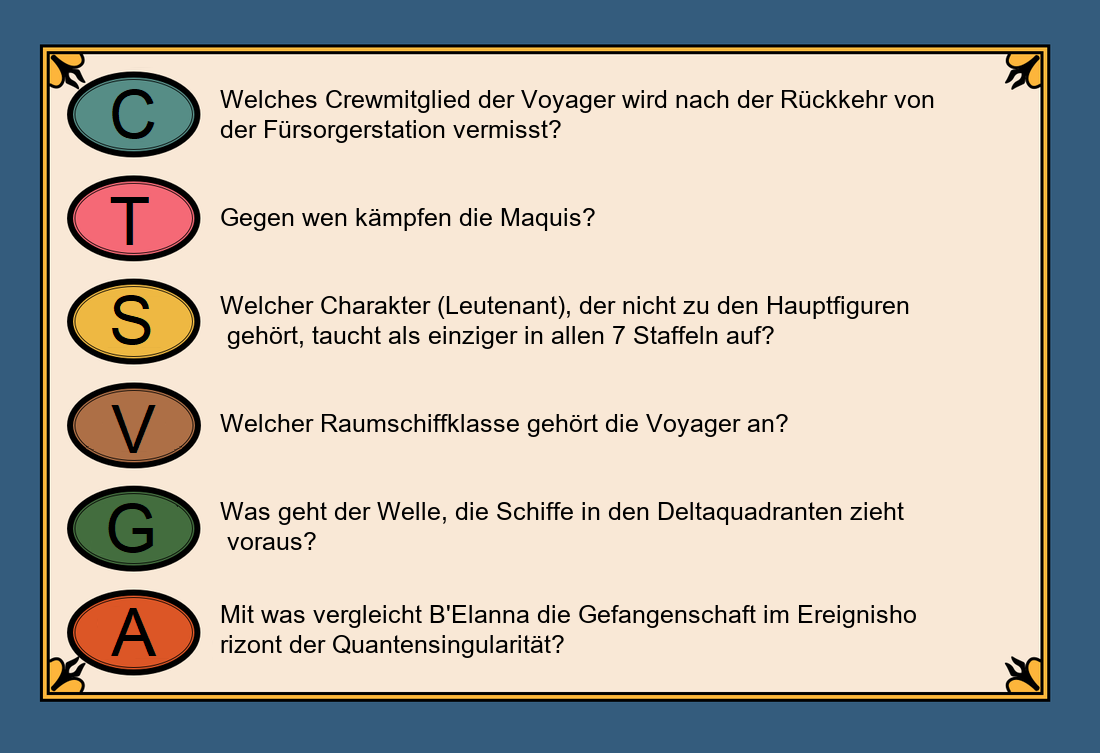
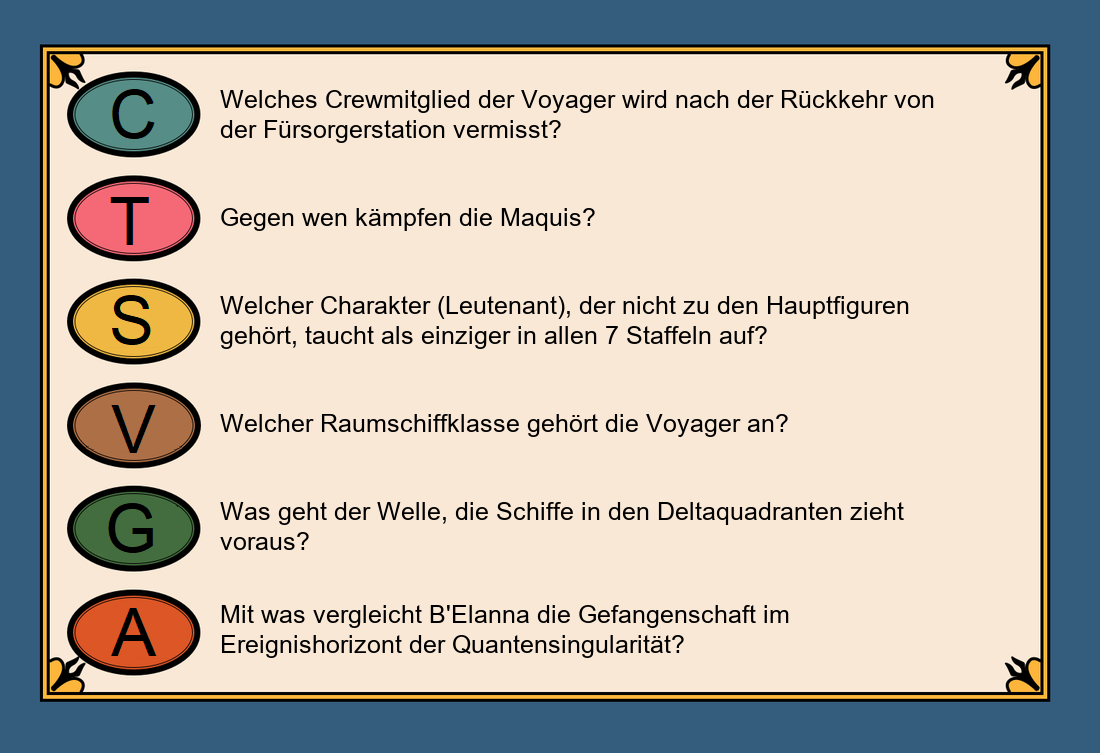
Database tools started. Checks if questions has questions mark and aren't to long and raises warnings and errors.

diff --git a/create_cards.py b/create_cards.py
@@ -1,12 +1,18 @@
+import os
+import re
+import shutil
 import sqlite3
 
 from PIL import ImageFont, Image, ImageDraw
-
-from database_statistics import count_questions, database_statistics
+from database_statistics import count_questions, get_categories_from_file
 
 
 def create_connection(db_file):
-    """ create a database connection to a SQLite database """
+    """
+    Establishes a database connection
+    :param db_file: File of the database
+    :return: Successfull connection
+    """
     try:
         return sqlite3.connect(db_file)
     except sqlite3.Error as e:
@@ -14,21 +20,34 @@ def create_connection(db_file):
 
 
 def get_questions_of_categoriy(conn, category):
+    """
+    Gets all questions of a category from the database
+    :param conn: Database connection
+    :param category: Category of which questions will be retrieved
+    :return: Set of all questions with the category
+    """
     cur = conn.cursor()
     cur.execute("SELECT * FROM qac WHERE category=?", category)
     return cur.fetchall()  # Could also use dict_factory
 
 
 def create_cards():
-    conn = create_connection("python_sqlite.db")
+    """
+    Creates question cards filled with the questions provided by the database
+    :return: Returns when no new card can be created
+    """
+    if os.path.exists("out") and os.path.isdir("out"):
+        shutil.rmtree('out')  # Clean out folder
+    os.mkdir("out")  # create new out folder for result cards
+    conn = create_connection("python_sqlite.db")  # If not exist, create database, else establish a connection
     used_ids = []
     fnt = ImageFont.truetype("arial.ttf", 25)
     with conn:
-        categories, categories_long = database_statistics()
-
+        categories, categories_long = get_categories_from_file()
+        # TODO Write categories on blank front, back
         card_count = 1
         while True:
-            vorne = Image.open("assets/front_cat.png")  # TODO durchgehend englisch
+            vorne = Image.open("assets/front_cat.png")
             hinten = Image.open("assets/back_cat.png")
             dv = ImageDraw.Draw(vorne)
             dh = ImageDraw.Draw(hinten)
@@ -46,13 +65,17 @@ def create_cards():
                         return  # End scipt - cards have been created
                     if question_row[0] not in used_ids:
                         used_ids.append(question_row[0])
-                        question = question_row[1]
+                        question = question_row[
+                            1].strip()  # Get question and remove possible whitespace after questionsmark
                         answer = question_row[2]
-                        if len(question) > 60:
-                            line1 = question[
-                                    0:60]  # TODO finde das letzte Leerzeichen oder - vor dem 60. Zeichen um
-                            # Zeilenumbruch zu machen, ggf sogar 3 Zeilen machen
-                            line2 = question[60:len(question)]
+                        if len(question) > 60:  # TODO 60 as variable
+                            spaces = [m.start() for m in re.finditer(' ', question.strip(" "))]  # Find all spaces
+                            print spaces
+                            line1_end = max(
+                                [s for s in spaces if s <= 60]) + 1  # Last space which index is less than 60
+                            print line1_end
+                            line1 = question[0:line1_end]  # Zeilenumbruch zu machen, ggf sogar 3 Zeilen machen
+                            line2 = question[line1_end:len(question)]
                             dv.text((220, y - 15), line1, font=fnt, fill=(0, 0, 0))
                             dv.text((220, y + 15), line2, font=fnt, fill=(0, 0, 0))
                         else:

diff --git a/database_tools.py b/database_tools.py
@@ -1,1 +1,39 @@
 # TODO Cleanup database, manual unique check, etc.
+# TODO check if every question ends with a question mark
+# TODO Check length of questions and answer is not to long
+# TODO Check each Question has valid category
+# TODO function which can repair corrupted entries
+import sqlite3
+
+
+def create_connection(db_file):
+    """ create a database connection to a SQLite database """
+    try:
+        connection = sqlite3.connect(db_file)
+        return connection
+    except sqlite3.Error as e:
+        print(e)
+
+
+def validate_questions():
+    print "Validating question entries..."
+    conn = create_connection("python_sqlite.db")
+    with conn:
+        cur = conn.cursor()
+        cur.execute("SELECT id,question FROM qac ORDER BY id")
+        for entry in cur.fetchall():
+            question_id = entry[0]
+            question = entry[1]
+            if len(question) > 60:
+                print "\033[91mError: ID: " + str(question_id) + " is to long! \033[0m" + question
+            if question[-1] != "?":
+                if question[-1] == " ":
+                    print "\033[93mWarning: ID: " + str(
+                        question_id) + " has spaces attached to the back. \033[0m" + question
+                else:
+                    print "\033[93mWarning: ID: " + str(question_id) + " has not a ? as last symbol! \033[0m" + question
+            print("\n")
+
+
+if __name__ == '__main__':
+    validate_questions()
